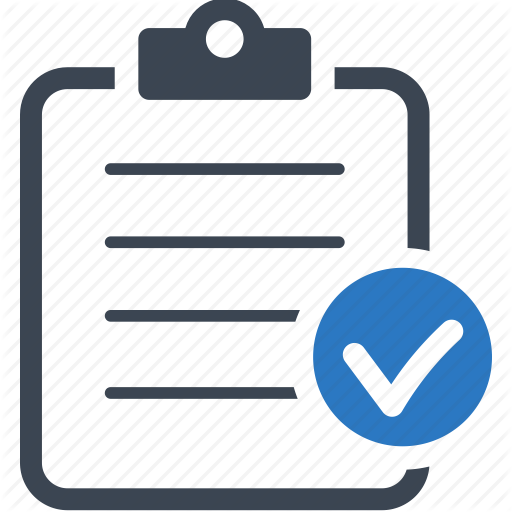
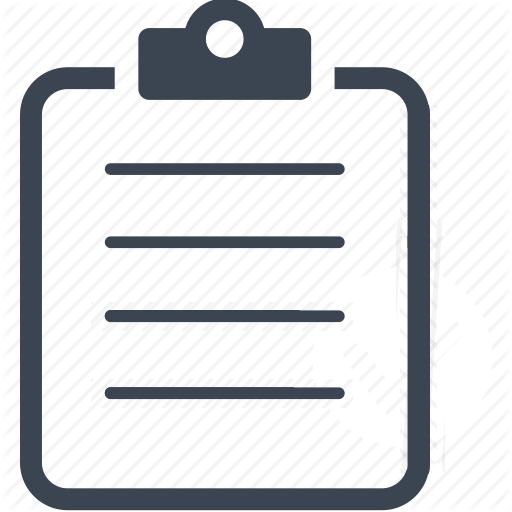
materiaal beheren icoon aangepast

Changed region(s): [[0.5625, 0.4688, 0.9688, 0.9375]]

diff --git a/src/main/StartUp.java b/src/main/StartUp.java
@@ -28,7 +28,7 @@ public class StartUp extends Application {
 
     @Override
     public void start(Stage primaryStage) throws Exception {
-        initializeDatabase();
+       // initializeDatabase();
         Scene scene = new Scene(new LayoutFrameController());
         primaryStage.setMaximized(true);
         primaryStage.setScene(scene);
